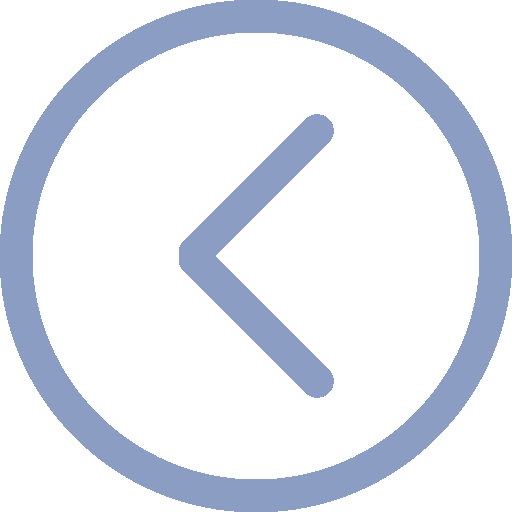
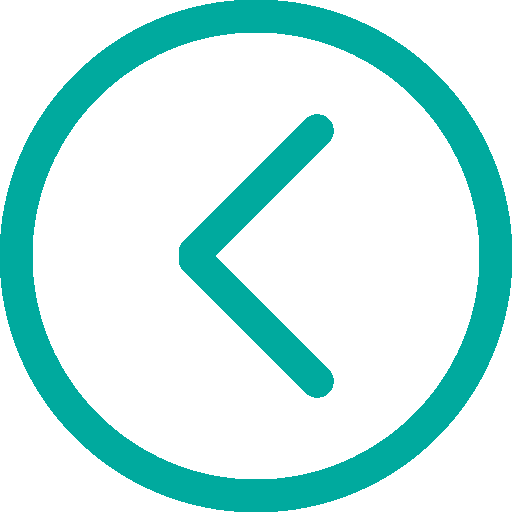
some more styling

Changed region(s): [[0.0, 0.0, 1.0, 1.0], [0.3438, 0.2188, 0.6562, 0.7812]]

diff --git a/src/components/card-modal.js b/src/components/card-modal.js
@@ -301,7 +301,7 @@ export default class CardModal extends Component {
             ?
             <TouchableOpacity onPress={this.activate}>
                 <Animated.View style={{
-                    opacity: this.state.button_opac, backgroundColor: this.props.color,
+                    opacity: this.state.button_opac, backgroundColor: "#00aa9e",
                     marginTop: 10, borderRadius: 10, width: width - 64, height: 50,
                     alignItems: 'center', justifyContent: 'center'
                 }}>
@@ -315,11 +315,11 @@ export default class CardModal extends Component {
         var plusButton = !this.state.activated
             ?
             <Animated.View style={{ opacity: this.state.plus, justifyContent: 'center', alignItems: 'center' }}>
-                <Icon name='plus-circle' style={{ fontSize: 24, color: this.props.color }} />
+                <Icon name='plus-circle' style={{ fontSize: 24, color: "#00aa9e" }} />
             </Animated.View>
             :
             <Animated.View style={{ opacity: this.state.plus, justifyContent: 'center', alignItems: 'center' }}>
-                <Icon name='check-circle' style={{ fontSize: 24, color: this.props.color }} />
+                <Icon name='check-circle' style={{ fontSize: 24, color: "#00aa9e" }} />
             </Animated.View>
 
         return (

diff --git a/src/components/subComponents/UserSetupForm.js b/src/components/subComponents/UserSetupForm.js
@@ -37,7 +37,7 @@ export default class UserSetupForm extends Component {
                     scrollEnabled={false}
 
                     style={{
-                        backgroundColor: "#00aa9e",
+                        backgroundColor: "#FFF",
                     }
                     }
                     formName='signupForm' // GiftedForm instances that use the same name will also share the same states
@@ -177,6 +177,7 @@ export default class UserSetupForm extends Component {
                         title={this.props.user.obj.username ? 'Submit Changes' : "Sign up"}
                         widgetStyles={{
                             submitButton: {
+                                backgroundColor: "#00aa9e"
                                 // backgroundColor: themes.mainColor,
                             }
                         }}

diff --git a/src/components/SingleStreamView.js b/src/components/SingleStreamView.js
@@ -44,7 +44,7 @@ export default class SingleStreamView extends Component {
                     <View style={{ flex: 5 / 12, backgroundColor: "#FFF" }}>
                         <View style={{ flex: 2 / 10, flexDirection: "row", justifyContent: "flex-start", alignItems: "center" }}>
                             <TouchableOpacity onPress={this.goBack}>
-                                <Image style={{ width: 40, height: 40 }} source={require("../assets/back.png")} />
+                                <Image style={{ width: 40, height: 40 }} source={require("../assets/blueback.png")} />
                             </TouchableOpacity>
                         </View>
                         <View style={{ flex: 8 / 10 }}>

diff --git a/src/components/AuthenticateAccountView.js b/src/components/AuthenticateAccountView.js
@@ -35,9 +35,9 @@ export default class AuthenticateAccountView extends Component {
                 flex: 1,
                 alignItems: 'center',
                 justifyContent: 'center',
-                backgroundColor: '#00aa9e',
+                backgroundColor: '#FFF',
             }}>
-                <Text style={{ fontSize: 30, color: "#FFF", fontFamily: 'SUPRRG', position: "absolute", top: 150 }}>Molli.</Text>
+                <Text style={{ fontSize: 30, color: "#00aa9e", fontFamily: 'SUPRRG', position: "absolute", top: 150 }}>Molli.</Text>
                 <TouchableOpacity onPress={this.handlePress}>
                     <SocialIcon
                         title='Continue With Facebook'

diff --git a/src/components/AccountSetupView.js b/src/components/AccountSetupView.js
@@ -31,7 +31,7 @@ export default class AccountSetupView extends Component {
             <Image style={{ width: 300, height: 300 }} source={require("../assets/loading-1.gif")} />
         </View>) : (
                 <View style={{
-                    backgroundColor: "#00aa9e", flex: 1,
+                    backgroundColor: "#FFF", flex: 1,
                     alignItems: 'center',
                     flexDirection: "row",
                     justifyContent: 'center',
